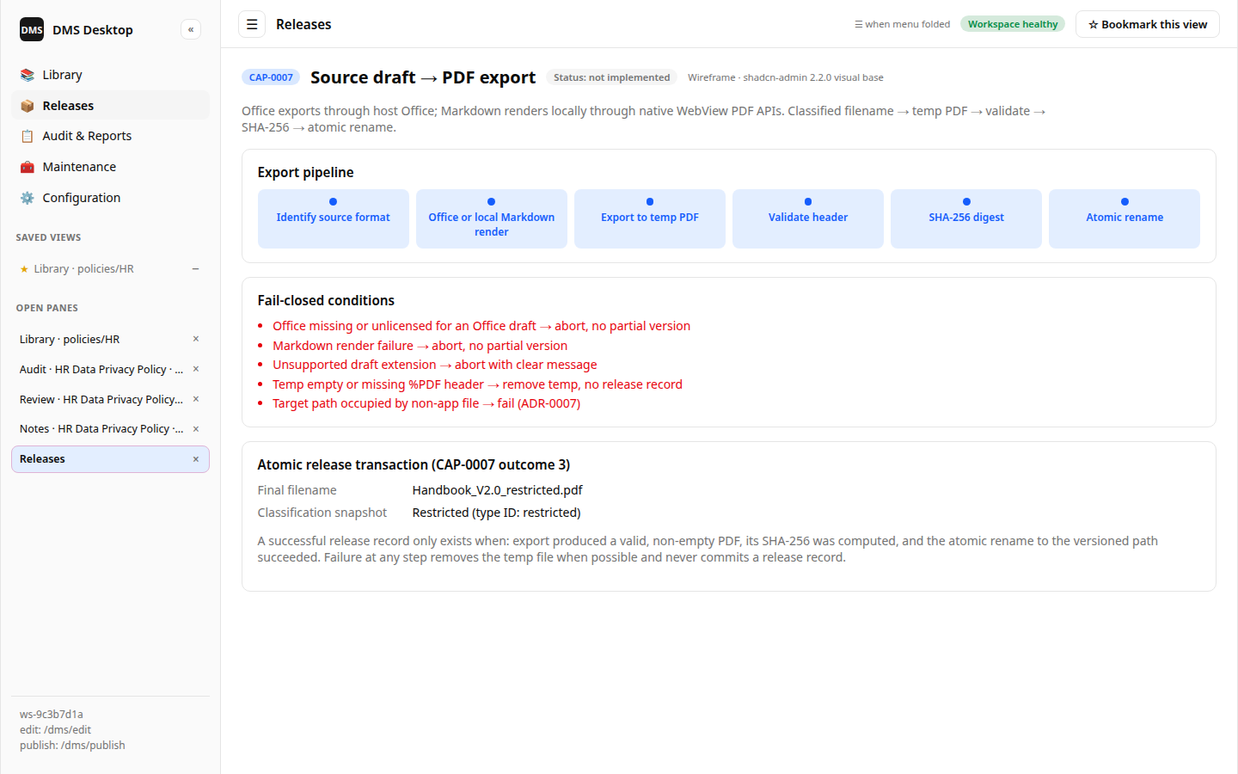
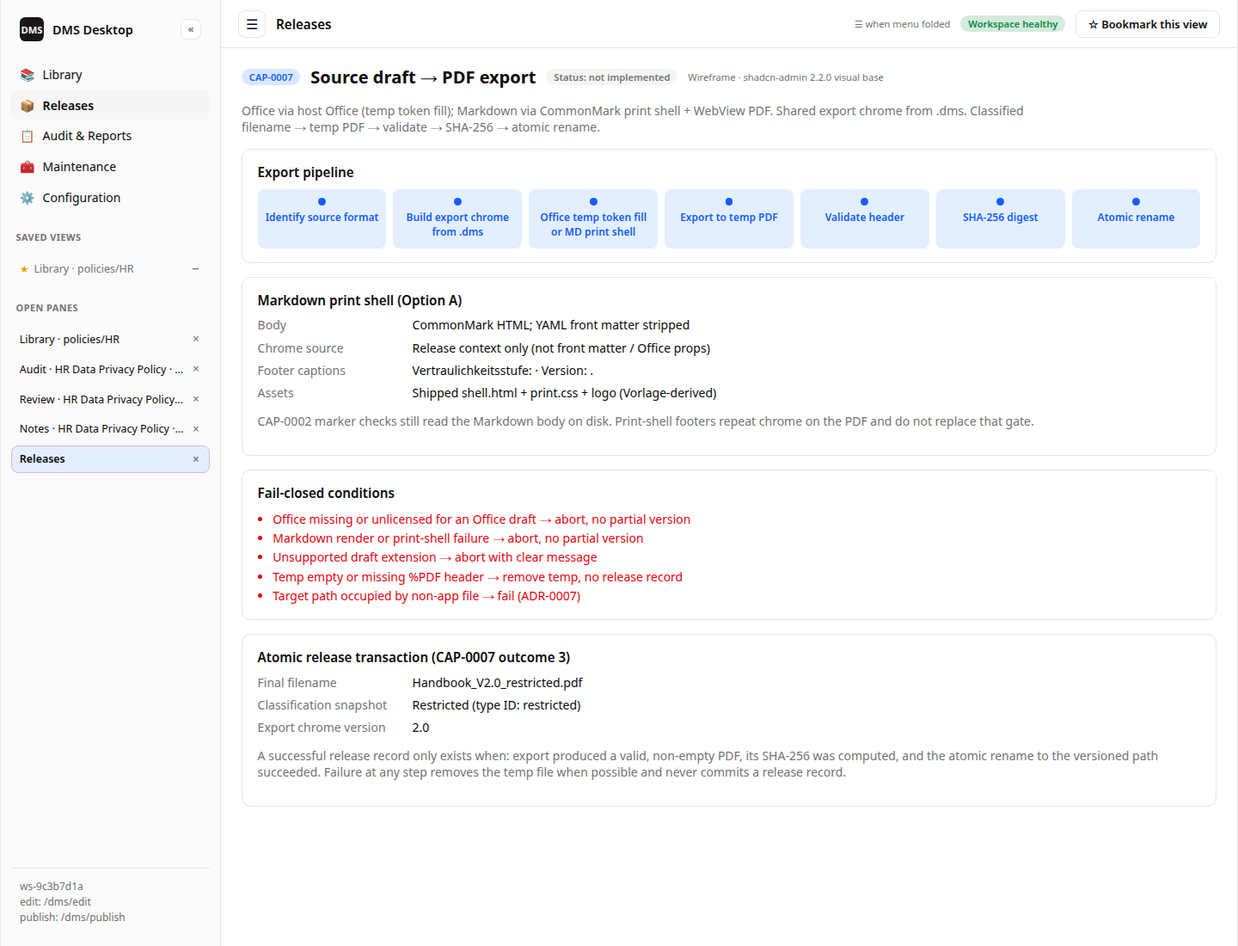
docs(product): define MD print-shell PDF chrome
Give Markdown releases Vorlage-like header/footer chrome without
routing through Word. Export chrome (version, confidentiality) comes
only from the .dms release context; CAP-0002 source markers stay on
the draft body. Office drafts may still use temp-copy {CONFIDENTIALITY}
and {VERSION} token fill.

Updates CAP-0007/0002, ADR-0008, architecture, CHG-0001 phase 5, and
the CAP-0007 wireframe.

diff --git a/docs/product/wireframes/html/CAP-0007-draft-pdf-export.html b/docs/product/wireframes/html/CAP-0007-draft-pdf-export.html
@@ -226,19 +226,24 @@ tr:last-child td { border-bottom: 0; }
         <span class="badge muted">Status: not implemented</span>
         <span class="wire-meta">Wireframe · shadcn-admin 2.2.0 visual base</span>
       </div>
-      <p class="subtitle">Office exports through host Office; Markdown renders locally through native WebView PDF APIs. Classified filename → temp PDF → validate → SHA-256 → atomic rename.</p>
+      <p class="subtitle">Office via host Office (temp token fill); Markdown via CommonMark print shell + WebView PDF. Shared export chrome from .dms. Classified filename → temp PDF → validate → SHA-256 → atomic rename.</p>
       
       <section class="card">
         <h3 class="card-title">Export pipeline</h3>
         <div class="pipeline">
-          <div class="step active"><span class="dot"></span>Identify source format</div><div class="step active"><span class="dot"></span>Office or local Markdown render</div><div class="step active"><span class="dot"></span>Export to temp PDF</div><div class="step active"><span class="dot"></span>Validate header</div><div class="step active"><span class="dot"></span>SHA-256 digest</div><div class="step active"><span class="dot"></span>Atomic rename</div>
+          <div class="step active"><span class="dot"></span>Identify source format</div><div class="step active"><span class="dot"></span>Build export chrome from .dms</div><div class="step active"><span class="dot"></span>Office temp token fill or MD print shell</div><div class="step active"><span class="dot"></span>Export to temp PDF</div><div class="step active"><span class="dot"></span>Validate header</div><div class="step active"><span class="dot"></span>SHA-256 digest</div><div class="step active"><span class="dot"></span>Atomic rename</div>
         </div>
+      </section>
+      <section class="card">
+        <h3 class="card-title">Markdown print shell (Option A)</h3>
+        <dl class="kv"><div><dt>Body</dt><dd>CommonMark HTML; YAML front matter stripped</dd></div><div><dt>Chrome source</dt><dd>Release context only (not front matter / Office props)</dd></div><div><dt>Footer captions</dt><dd>Vertraulichkeitsstufe: <label> · Version: <major>.<minor></dd></div><div><dt>Assets</dt><dd>Shipped shell.html + print.css + logo (Vorlage-derived)</dd></div></dl>
+        <p class="muted">CAP-0002 marker checks still read the Markdown body on disk. Print-shell footers repeat chrome on the PDF and do not replace that gate.</p>
       </section>
       <section class="card">
         <h3 class="card-title">Fail-closed conditions</h3>
         <ul class="list danger-list">
           <li>Office missing or unlicensed for an Office draft → abort, no partial version</li>
-          <li>Markdown render failure → abort, no partial version</li>
+          <li>Markdown render or print-shell failure → abort, no partial version</li>
           <li>Unsupported draft extension → abort with clear message</li>
           <li>Temp empty or missing %PDF header → remove temp, no release record</li>
           <li>Target path occupied by non-app file → fail (ADR-0007)</li>
@@ -246,7 +251,7 @@ tr:last-child td { border-bottom: 0; }
       </section>
       <section class="card">
         <h3 class="card-title">Atomic release transaction (CAP-0007 outcome 3)</h3>
-        <dl class="kv"><div><dt>Final filename</dt><dd>Handbook_V2.0_restricted.pdf</dd></div><div><dt>Classification snapshot</dt><dd>Restricted (type ID: restricted)</dd></div></dl>
+        <dl class="kv"><div><dt>Final filename</dt><dd>Handbook_V2.0_restricted.pdf</dd></div><div><dt>Classification snapshot</dt><dd>Restricted (type ID: restricted)</dd></div><div><dt>Export chrome version</dt><dd>2.0</dd></div></dl>
         <p class="muted">A successful release record only exists when: export produced a valid, non-empty PDF, its SHA-256 was computed, and the atomic rename to the versioned path succeeded. Failure at any step removes the temp file when possible and never commits a release record.</p>
       </section>
     </main>

diff --git a/docs/changes/active/CHG-0001-tauri-local-dms-bootstrap.md b/docs/changes/active/CHG-0001-tauri-local-dms-bootstrap.md
@@ -60,8 +60,9 @@ macOS** that:
 - Optionally hands a previewed local text comparison to installed Claude
   Desktop for advisory major/minor classification and changelog wording
 - On release: app snapshots effective confidentiality type, assigns version,
-  mirrors tree under publish root, exports Office drafts via preinstalled Office
-  or Markdown drafts through native WebView PDF APIs to
+  mirrors tree under publish root, builds export chrome from `.dms`, exports
+  Office drafts via preinstalled Office (temp-copy token fill) or Markdown
+  drafts through a CommonMark HTML print shell plus native WebView PDF APIs to
   `<stem>_VMAJOR.MINOR_<confidentiality-type-id>.pdf`, checksums it
 - Keeps editable source drafts in place after release
 - Attaches notes; verifies released PDF checksums
@@ -86,7 +87,7 @@ macOS** that:
 | 2 | `.dms` store + dual-root open/configure + confidentiality and workflow-role policies | pending | Tests: persist/reload edit+publish roots, stable workspace ID, and schema version; safe older-schema migration/newer-schema read-only; create/replace a direct folder policy, remove a non-root policy, refuse root-policy removal, and recompute nearest inherited class; inherit each workflow role independently; init `.dms` only on confirm |
 | 3 | Folder-first Library explorer + add/unregister/reassociate + selection pane | pending | Tests: folder pane is visible by default and includes empty edit-root folders while hiding `.dms`; Back/Forward/Up, breadcrumb, tree, and immediate-child contents stay synchronized; every file row keeps its exact filesystem name while an in-library row shows DMS-managed document data separately; one or more unregistered supported source files (including `.md`) can be selected and added from the right pane, while mixed/unsupported selections expose no incompatible batch action; folder navigation reuses one Library activity and updates its folder label; add under edit root; reject outside path; unregister preserves history; rename/reassociate updates only the source locator and does not change document control data or history; ambiguous move is never auto-linked; current-folder and Entire-library search scopes return matching files with paths and clear back to the complete folder listing; single controlled-document selection shows an always-visible Source file identity plus CAP-0015 Document control data and actions in the right pane; the data is loaded from `.dms`, not Office properties or Markdown front matter; its data, action, revision, and release sections fold independently while retaining document and source-file identity; navigating to an already-open task+document focuses the existing pane, while different tasks for that document may remain open; multi-select of controlled documents shows only multi-applicable actions in the same pane; a saved library view restores folder/sort and a single-document stable ID but never batch selection; copy permalink uses workspace+document IDs only and never changes saved views |
 | 4 | Lifecycle + approval notification + version assign + tree mirror | pending | Tests: request requires summary, requester, change class, effective approver, and transport success; CAP-0020 deep link resolves only an accessible registered workspace to the intended review request and still resolves after rename/version bump; each decision notifies the snapshotted requester, with failure retryable and non-reverting; approver-policy change invalidates an open review; cosmetic→minor, substantive/uncertain→major; DOCX body/header/footer and Markdown rendered-body version and confidentiality markers must equal the candidate release and effective type before review and again before release; missing, mismatched, and conflicting markers block by default; an explicit, reasoned false-positive override is revision-bound, visible to the approver, and recorded in the event chain; comments/event hash persist; metadata change invalidates approval; first version V1.0; refuse overwrite |
-| 5 | Format-specific local PDF export on release (Win + macOS adapters) | pending | Tests/integration: export Office drafts through installed Office (or a test double) and Markdown through the native WebView PDF API to the versioned, classified path on each OS; snapshot the effective type ID into the filename; failure rolls back version success |
+| 5 | Format-specific local PDF export on release (Win + macOS adapters) | pending | Tests/integration: export Office drafts through installed Office (or a test double), replacing `{CONFIDENTIALITY}`/`{VERSION}` on a temp copy from the release chrome map; export Markdown through CommonMark + shipped print shell (logo, `Vertraulichkeitsstufe:` / `Version:` footers from the same map, front matter stripped) + native WebView PDF API to the versioned, classified path on each OS; PDF chrome values match the release snapshot; failure rolls back version success; WebView2 and WKWebView smoke cover multi-page footer chrome |
 | 6 | Notes on documents | pending | Tests: note CRUD persistence across restart |
 | 7 | Release checksum + periodic review + verify | pending | Tests: exported PDF → expected SHA-256; tamper → mismatch; release snapshots draft digest/class/chain; periodic confirm keeps version; changes-required begins revision; full backup manifest covers both roots |
 | 8 | Optional Claude Desktop handoff | pending | Tests: disabled/missing app never blocks; policy and consent gate payload; accepted suggestion remains editable and cannot mutate lifecycle |
@@ -118,8 +119,12 @@ macOS** that:
 - Path mapping: `publish_abs = publish_root / relative_parent / versioned_name`
   (ADR-0006).
 - PDF export: one format dispatcher with Office adapters (Windows COM / macOS
-  automation) and Markdown's native WebView PDF adapters (ADR-0008); CI uses
-  fakes when platform export is unavailable.
+  automation) and Markdown print-shell + native WebView PDF adapters (ADR-0008
+  Option A). Shared export chrome comes only from `.dms` release context.
+  Ship default `shell.html` / `print.css` / logo derived from the corporate
+  Vorlage; do not route Markdown through Word. CI uses fakes when platform
+  export is unavailable; phase 5 must still spike fixed header/footer + page
+  indicators on WebView2 and WKWebView.
 
 ## Resume checklist
 

diff --git a/docs/product/capabilities/CAP-0007-draft-pdf-export.md b/docs/product/capabilities/CAP-0007-draft-pdf-export.md
@@ -4,7 +4,7 @@
 | --- | --- |
 | ID | CAP-0007 |
 | Status | not implemented |
-| Mechanism | Installed Microsoft Office for Office drafts; local CommonMark rendering + native WebView PDF API for Markdown |
+| Mechanism | Installed Microsoft Office for Office drafts; local CommonMark HTML print shell + native WebView PDF API for Markdown |
 | Tests | none |
 
 ## Outcomes (contract — not yet true in runtime)
@@ -15,8 +15,8 @@ When implemented, the following must hold:
    not a manual “export yourself and pick a file” step as the primary path:
    - Office drafts use Microsoft Office desktop apps already installed on the
      machine (Windows and macOS).
-   - Markdown (`.md`) drafts render locally as CommonMark HTML and use the
-     native WebView PDF API on the host OS.
+   - Markdown (`.md`) drafts render locally as CommonMark HTML inside an app
+     print shell and use the native WebView PDF API on the host OS.
 2. Export writes only to the computed publish path for the new version
    (`<publish-root>/<relative-parent>/<stem>_VMAJOR.MINOR_<confidentiality-type-id>.pdf`).
    The confidentiality type ID is the effective type at release, snapshotted in
@@ -35,13 +35,47 @@ When implemented, the following must hold:
 6. After a successful export, CAP-0004 checksum runs on the produced PDF bytes.
 7. Format-specific adapters are an implementation detail behind one export
    interface: Office may use Windows COM or macOS AppleScript/Office automation;
-   Markdown uses native WebView PDF APIs. The operator outcome is the same on
-   both supported OS.
+   Markdown uses the print shell plus native WebView PDF APIs. The operator
+   outcome is the same on both supported OS.
 8. Export first writes to a temporary file in the target publish directory.
    Before commit, the app verifies that the result is non-empty and has a valid
    PDF header, computes its SHA-256 digest, and atomically renames it to the
    final versioned path. Failure removes the temporary file when possible and
    does not commit a version or release record.
+9. Both adapters receive one **export chrome** map built only from the release
+   context in `.dms` (not from Office document properties or Markdown front
+   matter — CAP-0015):
+   - candidate version label without the filename `V` prefix (for example `2.0`)
+   - effective confidentiality **display label** and stable type **ID**
+     (CAP-0008 snapshot at release)
+   - optional DMS title and document number when the print shell shows them
+10. **Markdown print shell (Option A).** Markdown export does not route through
+    Word or a `.docx` template at runtime. The app:
+    - strips YAML front matter before CommonMark rendering (front matter is not
+      control data and is not PDF body content)
+    - wraps the body HTML in a shipped print shell (`shell.html` + `print.css` +
+      logo asset) that mirrors the corporate Vorlage chrome: header logo, A4 page
+      size and margins, and a footer with page indicator plus the canonical
+      captions `Vertraulichkeitsstufe: <display label>` and
+      `Version: <major>.<minor>`
+    - substitutes footer/header values only from the export chrome map
+    - loads the shell from an app-local asset base URL so relative logo/CSS paths
+      resolve, then prints via the native WebView PDF API
+    CAP-0002 source-draft marker checks remain on the Markdown body; the print
+    shell may repeat the same captions on every PDF page and must not be the
+    only place those values exist for the review/release gate.
+11. **Office placeholder fill.** When an Office draft (or its section
+    headers/footers) contains the literal tokens `{CONFIDENTIALITY}` or
+    `{VERSION}`, export works on a temporary copy and replaces them with the
+    export chrome display label and version label respectively, across body,
+    tables, text boxes, and every header/footer part, before invoking Office
+    PDF export. Tokens already replaced with concrete values are left unchanged.
+    The original draft on disk is never modified by this step.
+12. Shipped default print-shell assets are derived from the operator Vorlage
+    layout (logo, margins, footer column structure). Pixel-perfect match to
+    Word is not required; readable corporate chrome on every PDF page is.
+    Workspace override of those assets is out of scope for v1 unless a later
+    CAP adds it.
 
 ## Non-goals
 
@@ -49,6 +83,9 @@ When implemented, the following must hold:
 - Server-side or cloud conversion services
 - Pixel-perfect guarantee beyond what the selected local exporter produces
 - Requiring identical Office build numbers across Windows and macOS
+- Converting Markdown through Word solely to reuse a `.docx` template
+- Treating Office properties or Markdown front matter as authority for chrome
+  values
 
 ## Links
 - Wireframe (HTML): [`../wireframes/html/CAP-0007-draft-pdf-export.html`](../wireframes/html/CAP-0007-draft-pdf-export.html)
@@ -58,4 +95,5 @@ When implemented, the following must hold:
 - Lifecycle: [`CAP-0002-document-lifecycle.md`](CAP-0002-document-lifecycle.md)
 - Integrity: [`CAP-0004-release-integrity.md`](CAP-0004-release-integrity.md)
 - Classification: [`CAP-0008-confidentiality-classification.md`](CAP-0008-confidentiality-classification.md)
+- Document control data: [`CAP-0015-document-control-data.md`](CAP-0015-document-control-data.md)
 - Progress: [`../../changes/active/CHG-0001-tauri-local-dms-bootstrap.md`](../../changes/active/CHG-0001-tauri-local-dms-bootstrap.md)

diff --git a/docs/design-decisions.md b/docs/design-decisions.md
@@ -102,21 +102,34 @@ Capability-local rules stay in their CAP files.
 ## ADR-0008 — Format-specific local PDF export
 
 - **Decision:** The application dispatches PDF export by source format. Office
-  drafts use preinstalled Microsoft Office desktop apps on Windows and macOS;
-  Markdown (`.md`) drafts are rendered locally as CommonMark HTML and printed by
-  the native WebView PDF API. Both paths use one export interface and the same
-  versioned target, validation, checksum, and atomic-commit flow. Release does
-  not rely on the operator manually exporting and selecting a PDF.
+  drafts use preinstalled Microsoft Office desktop apps on Windows and macOS.
+  Markdown (`.md`) drafts are rendered locally as CommonMark HTML inside a
+  shipped **print shell** (HTML/CSS/logo chrome derived from the corporate
+  Vorlage layout) and printed by the native WebView PDF API. Markdown release
+  does **not** convert through Word or a runtime `.docx` template. Both paths
+  share one export interface, one release-context **export chrome** map
+  (version label, confidentiality display label and type ID, optional title /
+  document number) sourced only from `.dms`, and the same versioned target,
+  validation, checksum, and atomic-commit flow. Release does not rely on the
+  operator manually exporting and selecting a PDF. Office drafts may still
+  contain `{CONFIDENTIALITY}` / `{VERSION}` tokens that export replaces on a
+  temporary copy before invoking Office.
 - **Why:** This preserves the established Office release path while letting
   Markdown release without requiring Office, a bundled browser, or a cloud
-  conversion service.
+  conversion service, and still produces corporate header/footer chrome aligned
+  with the Vorlage without making Office properties or Markdown front matter
+  authoritative (CAP-0015).
 - **Consequences:** Licensed desktop Office is a runtime dependency only for
   Office drafts. Office automation may use platform-native mechanisms (for
-  example COM on Windows and AppleScript/Office automation on macOS); Markdown
-  export requires supported native WebView PDF APIs on each OS. CI may use test
-  doubles, but platform integration must prove both adapters. No successful
-  version record exists unless the selected exporter produces the valid PDF that
-  the app validates, checksums, and atomically commits.
+  example COM on Windows and AppleScript/Office automation on macOS). Markdown
+  export requires supported native WebView PDF APIs on each OS and a proven
+  print-shell layout (fixed header/footer and page indicators under WebView2
+  and WKWebView). CAP-0002 visible-content markers remain a source-draft check;
+  the Markdown print shell may repeat the canonical captions but does not
+  replace that gate. CI may use test doubles, but platform integration must
+  prove both adapters. No successful version record exists unless the selected
+  exporter produces the valid PDF that the app validates, checksums, and
+  atomically commits.
 
 ## ADR-0009 — SMTP notification opens local-app approval
 

diff --git a/docs/architecture.md b/docs/architecture.md
@@ -15,7 +15,7 @@ PDFs under a **publish root**, with integrity checksums.
 | Tauri 2 shell (Rust) | Windowing, filesystem access, checksums, path mapping, format-specific PDF export orchestration, OS integration, registered local-app URI handler (document permalinks) |
 | Frontend (web UI in WebView) | Foldable left menu with hamburger when collapsed; open-activity panes/tabs as quicklinks; folder-dominant Library workspace with a persistent edit-root-relative tree, Windows Explorer-like Back/Forward/Up and breadcrumb navigation, current-folder child folders + exact source-file names + controlled-document data, and a selection pane that separates filesystem-derived Source file identity from CAP-0015 DMS-managed document control data and single/batch actions; add/remove control, lifecycle, change commentary, approval, release/verify, confidentiality and workflow-role policies, audit export, publish history, copy/resolve document permalinks |
 | Microsoft Office (host-installed) | PDF export engine for Office drafts invoked by the app on release (Word/Excel/PowerPoint as applicable) |
-| Native WebView PDF API | Locally renders Markdown source to PDF on release |
+| Native WebView PDF API | Prints Markdown CommonMark HTML through a shipped print shell (header/footer chrome from release-context export map) to PDF on release |
 | Claude Desktop (optional host app) | Operator-mediated, consented handoff for advisory change classification and changelog wording; not a callable local model or lifecycle authority |
 | `<edit-root>/.dms/` | Roots config, library registry, DMS-managed document control data, workflow-person roster + SMTP settings (no secrets), folder confidentiality and workflow-role policies, notes, approval/release history, evidence hashes, checksums, advisory lock |
 | Edit root tree | Operator-edited Microsoft Office and Markdown source drafts (library members are a subset) |
@@ -41,8 +41,10 @@ procedures/Onboarding.md    →      procedures/Onboarding_V1.0_internal.pdf
   document control data and history remain keyed to the stable document ID.
 - On release, the app: snapshots the effective confidentiality type ID, assigns
   the next version label → ensures the relative parent path exists under the
-  publish root → exports Office drafts via installed Microsoft Office or
-  Markdown drafts through a native WebView PDF API into
+  publish root → builds one export chrome map from `.dms` → exports Office
+  drafts via installed Microsoft Office (token-filling `{CONFIDENTIALITY}` /
+  `{VERSION}` on a temp copy when present) or Markdown drafts through a
+  CommonMark HTML print shell plus native WebView PDF API into
   `<stem>_VMAJOR.MINOR_<confidentiality-type-id>.pdf` → checksums the result.
 - Application-managed version history consists of immutable release PDFs and
   their evidence. Source drafts remain mutable working copies; draft recovery

diff --git a/AGENTS.md b/AGENTS.md
@@ -93,7 +93,7 @@ Project-wide style and workflow preferences also live in user memory; this secti
 ## Architectural decisions
 
 - **Agent harness protected by tirith.sh.** Reading passwords or access tokens is prohibited. Extract variables from `.env` / config files without relaying their values; use environment variables by importing them for Bash execution. `***` in output is a tirith redaction marker, not a literal value — never "fix" it to a variable ref.
-- **Product shape.** Tauri 2 desktop app for Windows and macOS; operator-maintained document control; dual roots (edit + publish) with mirrored relative trees; foldable left menu (hamburger when collapsed) with session-only open-activity panes/tabs plus per-user saved views; folder-dominant, Windows Explorer-like library workspace with a persistent relative tree, Back/Forward/Up + breadcrumbs, current-folder contents, exact source-file names, and a selection pane that separates filesystem-derived Source file identity from DMS-managed document control data and document/batch actions; stable document permalinks (`workspace ID` + `document ID`); Office and Markdown source drafts; app-driven versioning + PDF export through installed Office for Office formats and native WebView PDF APIs for Markdown to checksummed `*_VMAJOR.MINOR.pdf`; cosmetic changes increment minor and substantive changes increment major; `<edit-root>/.dms` metadata with no application database. Detail: `docs/architecture.md` and `docs/design-decisions.md`.
+- **Product shape.** Tauri 2 desktop app for Windows and macOS; operator-maintained document control; dual roots (edit + publish) with mirrored relative trees; foldable left menu (hamburger when collapsed) with session-only open-activity panes/tabs plus per-user saved views; folder-dominant, Windows Explorer-like library workspace with a persistent relative tree, Back/Forward/Up + breadcrumbs, current-folder contents, exact source-file names, and a selection pane that separates filesystem-derived Source file identity from DMS-managed document control data and document/batch actions; stable document permalinks (`workspace ID` + `document ID`); Office and Markdown source drafts; app-driven versioning + PDF export through installed Office for Office formats and a CommonMark HTML print shell plus native WebView PDF APIs for Markdown (export chrome from `.dms`) to checksummed `*_VMAJOR.MINOR_<confidentiality-type-id>.pdf`; cosmetic changes increment minor and substantive changes increment major; `<edit-root>/.dms` metadata with no application database. Detail: `docs/architecture.md` and `docs/design-decisions.md`.
 - **Application records.** CAP files under `docs/product/` are behaviour contracts; CHG files under `docs/changes/` are progress authority. Code and tests prove behaviour.
 
 ## Codebase Knowledge Graph (codebase-memory-mcp)

diff --git a/docs/product/capabilities/CAP-0002-document-lifecycle.md b/docs/product/capabilities/CAP-0002-document-lifecycle.md
@@ -116,11 +116,15 @@ When implemented, the following must hold:
     value. Caption matching normalizes surrounding whitespace and casing;
     version and confidentiality values must match exactly after whitespace
     normalization. The DOCX scanner covers body text, tables, text boxes, and
-    every header/footer part, including section-specific footers. The Markdown
-    scanner checks rendered body text outside front matter, HTML comments, and
-    fenced or indented code blocks. Other draft formats may not enter review or
-    release until equivalent visible-content coverage is implemented and tested
-    alongside CAP-0007.
+    every header/footer part, including section-specific footers (including
+    unresolved `{VERSION}` / `{CONFIDENTIALITY}` tokens, which do not satisfy
+    the gate until export would replace them — the gate reads the draft on
+    disk, not the temp export copy). The Markdown scanner checks rendered body
+    text outside front matter, HTML comments, and fenced or indented code
+    blocks. The CAP-0007 Markdown print-shell footer is export chrome only and
+    does not satisfy this source-draft check by itself. Other draft formats may
+    not enter review or release until equivalent visible-content coverage is
+    implemented and tested alongside CAP-0007.
     A failed check blocks the transition by default and reports the expected and
     detected marker values and locations without retaining other draft content.
     The operator may explicitly proceed after accepting a false-positive

diff --git a/README.md b/README.md
@@ -32,7 +32,8 @@ Planned control model:
   persistent tree navigation, breadcrumbs, Back/Forward/Up, and a source-file
   identity distinct from DMS-managed document-control data.
 - Application-driven PDF release: host-installed Microsoft Office exports Office
-  drafts, while the app renders Markdown locally through native WebView PDF APIs.
+  drafts; Markdown renders locally through a CommonMark HTML print shell and
+  native WebView PDF APIs, with header/footer chrome from the release context.
   First release is `V1.0`; cosmetic changes increment the minor version, while
   substantive or uncertain changes increment the major version.
 - Released PDFs use
